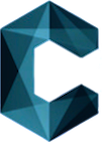
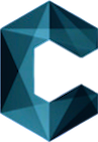
resize letter buttons

diff --git a/style.css b/style.css
@@ -15,105 +15,74 @@ form {
     left: 10%;
     target-new: tab;
 }
-.cButton {
+
+/* Adjust the button container spacing */
+.button-container {
+    display: flex;
+    justify-content: left;
+    align-items: center;  /* Align buttons vertically */
+    width: auto;
+    margin: 0 auto;
+    gap: 0;  /* Remove any extra gap */
+    padding:30px;
+}
+
+/* Adjust the button size directly */
+.cButton, .hButton, .rButton, .sButton {
     border: none;
     background-color: Transparent;
-    margin: 0;
-    width: 98px;
-    height: 142px;
-    top: 50px;
-    left: 70px;
-    background-image: url('images/c.png');
-    position: absolute;
-}
-.cButton:focus {
-    outline: 0;
-}
-.cButton:hover {
-    -webkit-filter: brightness(140%);
-}
-.hButton {
-    border: none;
-    background-color: Transparent;
-    margin: 0;
-    width: 150px;
-    height: 143px;
-    top: 50px;
-    left: 148px;
-    background-image: url('images/h.png');
-    -vendor-animation-duration: 2s;
-    animation-delay: .5s;
-    -vendor-animation-iteration-count: infinite;
-    position: absolute;
+    margin: 0;  /* Zero margin to remove spacing between buttons */
+    padding: 0; /* Remove any internal padding */
+    width: 70px;  /* Set width */
+    height: 100px;  /* Set height */
     background-repeat: no-repeat;
+    background-size: contain;  /* Ensure image fits button size */
+    background-position: center;  /* Ensure background image is centered */
+    transition: transform 0.3s ease-in-out;
+    display: block;  /* Make sure buttons are treated as block elements */
+    object-fit: cover;  /* Ensure images fit perfectly in button space */
+    object-position: center;  /* Center image inside the button */
 }
-.hButton:focus {
-    outline: 0;
-}
-.hButton:hover {
-    -webkit-filter: brightness(140%);
-}
-.rButton {
-    border: none;
-    background-color: Transparent;
-    margin: 0;
-    width: 96px;
-    height: 149px;
-    top: 50px;
-    left: 279px;
-    background-image: url('images/r.png');
-    -vendor-animation-duration: 2s;
-    animation-delay: 1s;
-    -vendor-animation-iteration-count: infinite;
-    position: absolute;
-    background-repeat: no-repeat;
-}
-.rButton:focus {
-    outline: 0;
-}
-.rButton:hover {
-    -webkit-filter: brightness(140%);
-}
+
 .iButton {
     border: none;
     background-color: Transparent;
-    margin: 0;
-    width: 36px;
-    height: 142px;
-    left:383px;
-    top: 50px;
+    margin: 0;  /* Zero margin to remove spacing between buttons */
+    padding: 0; /* Remove any internal padding */
+    width: 35px;  /* Set width */
+    height: 100px;  /* Set height */
+    background-repeat: no-repeat;
+    background-size: contain;  /* Ensure image fits button size */
+    background-position: center;  /* Ensure background image is centered */
+    transition: transform 0.3s ease-in-out;
+    display: block;  /* Make sure buttons are treated as block elements */
+    object-fit: cover;  /* Ensure images fit perfectly in button space */
+    object-position: center;  /* Center image inside the button */
+}
+
+.cButton {
+    background-image: url('images/c.png');
+}
+
+.hButton {
+    background-image: url('images/h.png');
+}
+
+.rButton {
+    background-image: url('images/r.png');
+}
+
+.iButton {
     background-image: url('images/i.png');
-    -vendor-animation-duration: 2s;
-    animation-delay: 1.5s;
-    -vendor-animation-iteration-count: infinite;
-    position: absolute;
 }
-.iButton:focus {
-    outline: 0;
-}
-.iButton:hover {
-    -webkit-filter: brightness(140%);
-}
+
 .sButton {
-    border: none;
-    background-color: Transparent;
-    margin: 0;
-    width: 101px;
-    height: 145px;
-    top: 50px;
-    left: 425px;
     background-image: url('images/s.png');
-    -vendor-animation-duration: 2s;
-    animation-delay: 2s;
-    -vendor-animation-iteration-count: infinite;
-    position: absolute;
 }
-.sButton:focus {
-    outline: 0;
-}
-.sButton:hover {
-    -webkit-filter: brightness(140%);
-}
+
+/*.cButton:hover, .hButton:hover, .rButton:hover, .iButton:hover, .sButton:hover {*/
+/*    -webkit-filter: brightness(140%);*/
+/*}*/
 
 .resume {
     margin-top: 250px;
@@ -197,7 +166,7 @@ form {
     border-radius: 50%;
     margin-left: auto;
     margin-right: auto;
-    object-fit: cover; /* Ensures the image maintains its aspect ratio */
+    object-fit: cover;
 }
 
 .social-links {

diff --git a/chrisbuttaro.js b/chrisbuttaro.js
@@ -18,6 +18,7 @@ $(document).ready(function () {
         }
     });
 
+    const buttonContainer = $('<div>').addClass('button-container');
     const contentDiv = $('<div>').addClass('content-div');
 
     function addButton(text, fadeDirection, heading, buttonClass) {
@@ -37,8 +38,10 @@ $(document).ready(function () {
         button.one('webkitAnimationEnd mozAnimationEnd MSAnimationEnd oanimationend animationend', function () {
             button.removeClass(`animated ${fadeDirection}`);
         });
-        $('body').append(button);
+        buttonContainer.append(button)
     }
+
+    $('body').append(buttonContainer);
 
     $('body').append(contentDiv);
     const cText = "I am a collaborative developer who enjoys working with teammates to deliver " +
